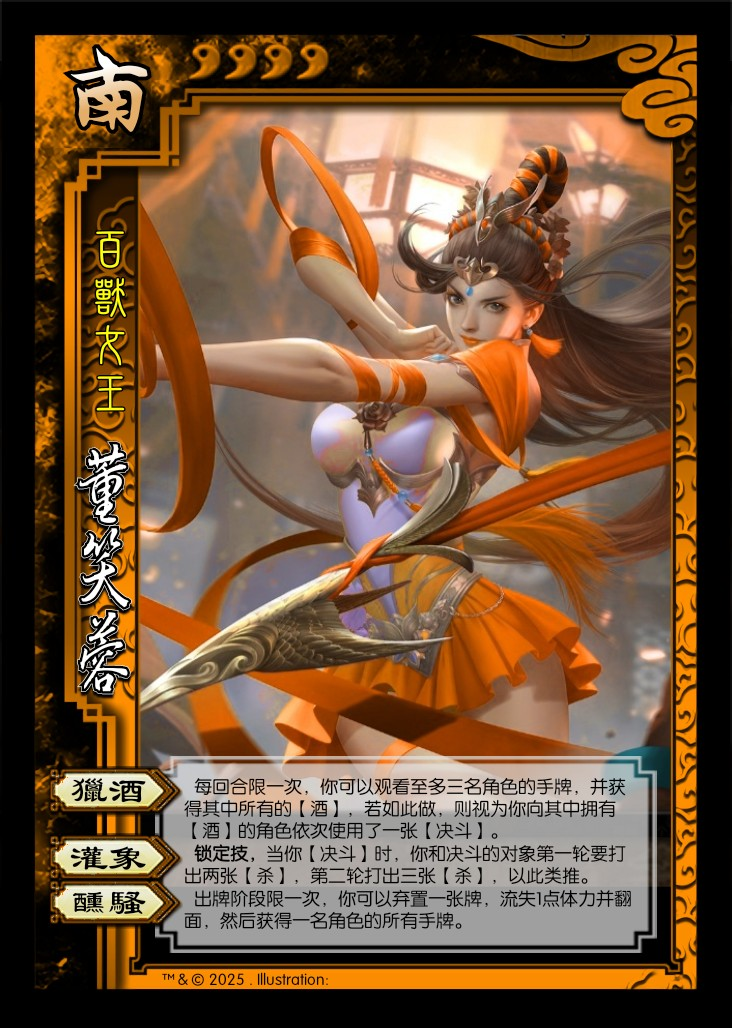
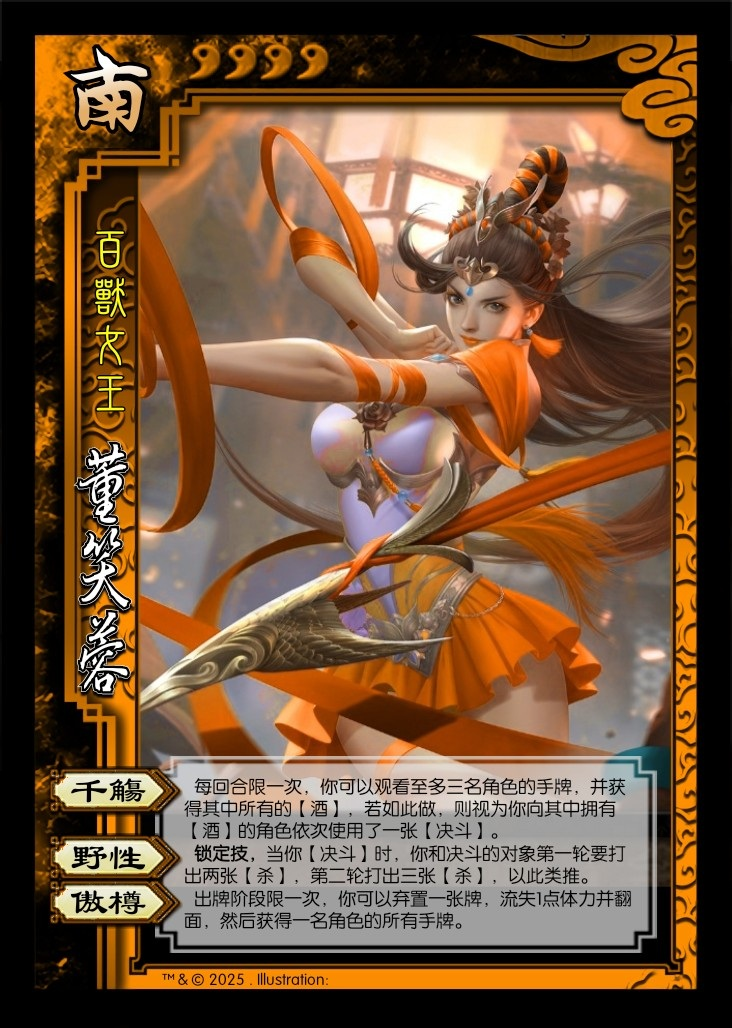
update dongxiaorong card description and update thunder sound

Changed region(s): [[0.0902, 0.8093, 0.2104, 0.9027], [0.1202, 0.2179, 0.1803, 0.3424], [0.0902, 0.7471, 0.2104, 0.7782]]

diff --git a/character/jiuzisha.js b/character/jiuzisha.js
@@ -44,9 +44,9 @@ game.import('character',function(lib,game,ui,get,ai,_status){
             guidouzi_z:["male","wei",4,['zhenjiu_gui','qixing_gui','yunv_gui'],[]],
             moke:["male","wu",3,['yanyin_moke','ningwu_moke','xinghuo_moke','huozhong_moke'],[]],
             moke2:["male","wu",3,['yanyin_moke','ningwu_moke','xinghuo_moke','huozhong_moke'],['unseen']],
-            // tongxin:["female","shu",5,["fengru_tong","tunfei_tong"],[]],
+            tongxin:["female","shu",5,["fengru_tong","tunfei_tong"],[]],
             monian:["male","qun",4,["lanyong_mo","sanman_mo","shuaixing_mo"],[]],
-            // yuner:["female","qun",50,['yuner_shiyan','yuner_selfDamage','yuner_qiangpai','yuner_die'],[]],
+            // yuner:["female","qun",50,['yuner_shiyan','yuner_selfDamage','guicai','yuner_shandian'],[]],
 		},
 		characterIntro:{
 			ouruoling:"欧若灵，西域第一美人儿，善于飞行，相貌极其精致，如凌波仙子般水灵秀气，丰姿冶丽，仿佛上天有意细细雕琢出来一般；她秀雅绝俗，自有一股轻灵之气，肌肤娇嫩、神态悠闲、美目流盼、含辞未吐、气若幽兰，说不尽的温柔可人；身材无限接近九昕儿一般的完美，娇躯时常散发着茉莉的清香，除了九昕儿以外无人的颜值能在她之上；她是九幽精灵鸟仅存的后裔；全金发的手下，韩鑫的好友；原西域千门赌场掌管财务的户部尚书，后兼任韩鑫的治粟总长，总管账目和运送粮草，是全金发的得力助手。早年为一绿翅小鸟，被全金发所救，并为他的无私和爱所感动，爱上了全金发；为了全金发加入了千门，由于长得实在太美了，成为无数男人心中的女神，升官极其顺利，很快就成了全金发的副手，单相思着全金发，可是由于害羞和含蓄不敢表露自己的情愫。性格单纯，聪颖，贤惠，含蓄又专情；数学非常好，算账从来没有出过错；大叔控，有时会自作多情，沉浸在自己与全金发的美好幻想之中无法自拔。对爱人非常周到和体贴，也非常容易满足，全金发一个微笑和一句夸赞就能让她开心好几天。",
@@ -6329,7 +6329,7 @@ game.import('character',function(lib,game,ui,get,ai,_status){
                                 return false;
                             }
                         }
-                        if (trigger.getParent().player&&get.attitude(player,trigger.getParent().player)>0&&Math.random()<0.9){
+                        if (trigger.getParent().player&&get.attitude(player,trigger.getParent().player)>0&&Math.random()<0.99){
                             return false;
                         }
                         return (player.storage.kuaijiu_ding < player.maxHp - 1 && !player.isTurnedOver())|| player.isTurnedOver()||player.storage.kuaijiu_ding >= player.maxHp + 1;
@@ -7384,7 +7384,7 @@ game.import('character',function(lib,game,ui,get,ai,_status){
 				},
 				content:function(event){
                     player.logSkill('mingcha_quan');
-                    game.log(player,'的非延迟锦囊牌无法被【无懈可击】响应');
+                    game.log(player,'的非延迟锦囊牌无法被','#y【无懈可击】','响应');
                     if (trigger.card.name!='wuxie'){
                         var has=game.hasPlayer(function(current){
                             if (!current.hasSkill('mingcha_disable_quan')){
@@ -9719,7 +9719,7 @@ game.import('character',function(lib,game,ui,get,ai,_status){
                             if (target.hasSkillTag('nothunder')){return 0;} 
                             else if (has) {return 15-att;}
                             else if (target.hasSkill('duanxiu_duo'||target.hasSkill('kuaijiu_ding')||target.hasSkill('yuzhong_yan')||player.hasSkill('qinyin_jian_duo'))){
-                                return 0;
+                                return -0.5;
                             }
                             else{
                                 return 15-att;
@@ -10014,7 +10014,7 @@ game.import('character',function(lib,game,ui,get,ai,_status){
                                 if (target.hasSkillTag('nothunder')){return 0;} 
                                 else if (has) {return 50-att;}
                                 else if (target.hasSkill('duanxiu_duo'||target.hasSkill('kuaijiu_ding')||target.hasSkill('yuzhong_yan')||player.hasSkill('qinyin_jian_duo'))){
-                                    return 0;
+                                    return -0.5;
                                 }
                                 else{
                                     return 50-att;
@@ -16124,7 +16124,13 @@ game.import('character',function(lib,game,ui,get,ai,_status){
                             var goon = 0;
                             if (get.attitude(target,player)>0){
                                 if (player.hp < 3){
-                                    goon = -25;
+                                    if (player.hp+player.countCards('h','tao')+player.countCards('h','jiu')<2){
+                                        return 0;
+                                    }
+                                    else{
+                                        goon = -25;
+                                    }
+                                    
                                 }
                                 else{
                                     goon = 10;
@@ -17849,7 +17855,20 @@ game.import('character',function(lib,game,ui,get,ai,_status){
             },
             
             tunfei_tong:{
-
+                trigger:{player:'damageBegin3'},
+				audio:2,
+				forced:true,
+				filter:function(event){
+					return event.card&&(get.color(event.card)!='black'||event.source&&event.source.isAlive()&&event.source.sex == 'male');
+				},
+				content:function(){
+                    if (get.color(trigger.card)=='black'&&trigger.source&&trigger.source.isAlive()&&trigger.source.sex == 'male'){
+                        trigger.source.draw();
+                    }
+                    else{
+                        trigger.player.draw();
+                    }
+				},
             },
 
 
@@ -19693,7 +19712,7 @@ game.import('character',function(lib,game,ui,get,ai,_status){
             "fengru_tong":"丰乳",
             "fengru_tong_info":"丰乳",
             "tunfei_tong":"臀肥",
-            "tunfei_tong_info":"臀肥",
+            "tunfei_tong_info":"锁定技，当你受到牌造成的伤害时，若伤害来源为男性角色且此牌为黑色，则伤害来源摸一张牌；否则你摸一张牌。",
 
 
             monian:"墨念",

diff --git a/card/standard.js b/card/standard.js
@@ -1509,6 +1509,7 @@ game.import('card',function(lib,game,ui,get,ai,_status){
 				},
 				effect:function(){
 					if(result.card&&result.suit=='spade'&&result.bool==false){
+						game.playAudio('skill','anmou_enda'+3);
 						player.damage(3,'thunder','nosource');
 					}
 					else{
